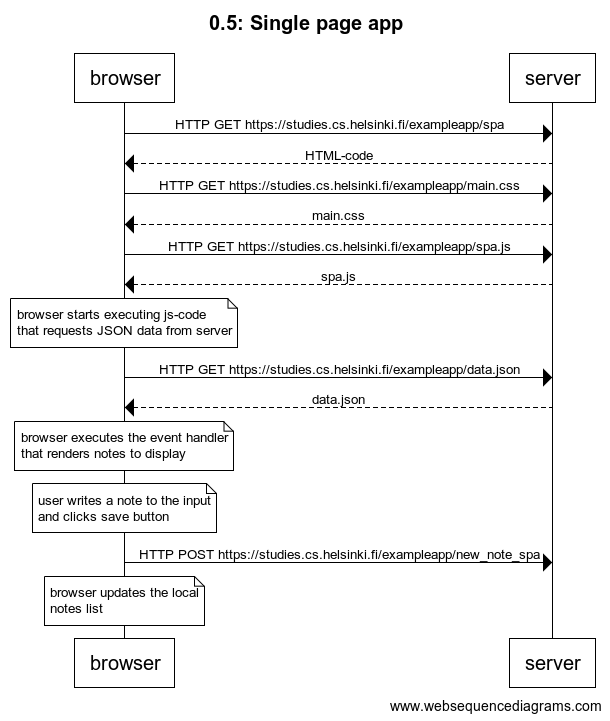
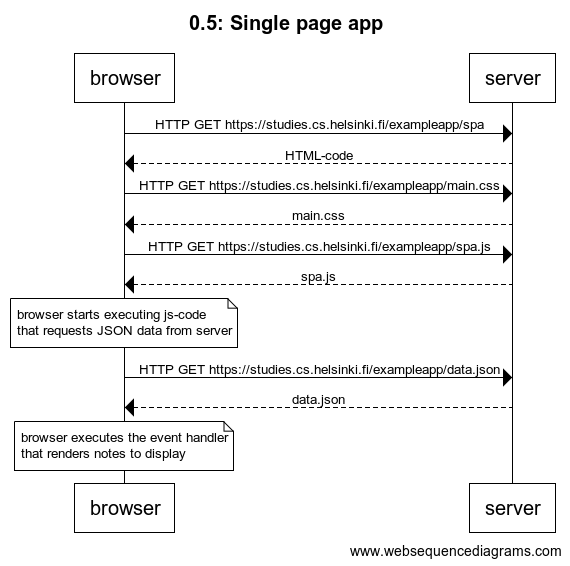
0.5

Changed region(s): [[0.0, 0.0601, 0.9842, 0.9912], [0.3281, 0.0, 0.686, 0.0601], [0.507, 0.6908, 0.5965, 0.7208]]

diff --git a/part0/0.5/README.md b/part0/0.5/README.md
@@ -33,16 +33,4 @@ note over browser:
 browser executes the event handler
 that renders notes to display
 end note
-
-note over browser:
-user writes a note to the input 
-and clicks save button
-end note
-
-browser->server: HTTP POST https://studies.cs.helsinki.fi/exampleapp/new_note_spa
-
-note over browser:
-browser updates the local 
-notes list
-end note
 ```
